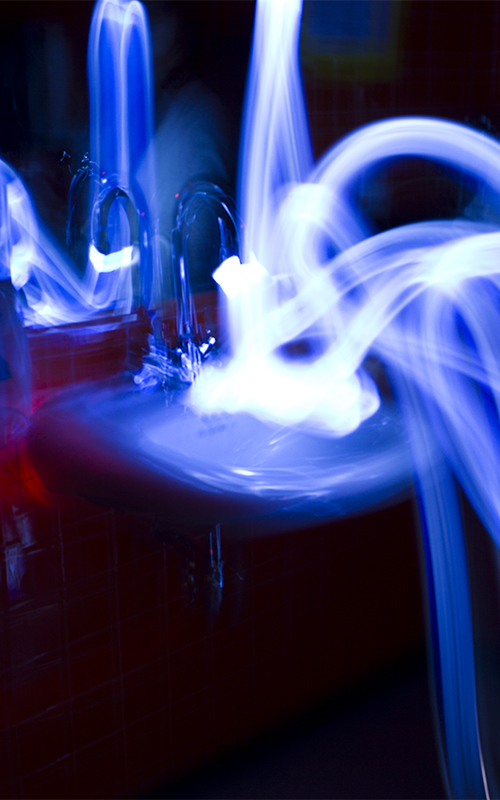
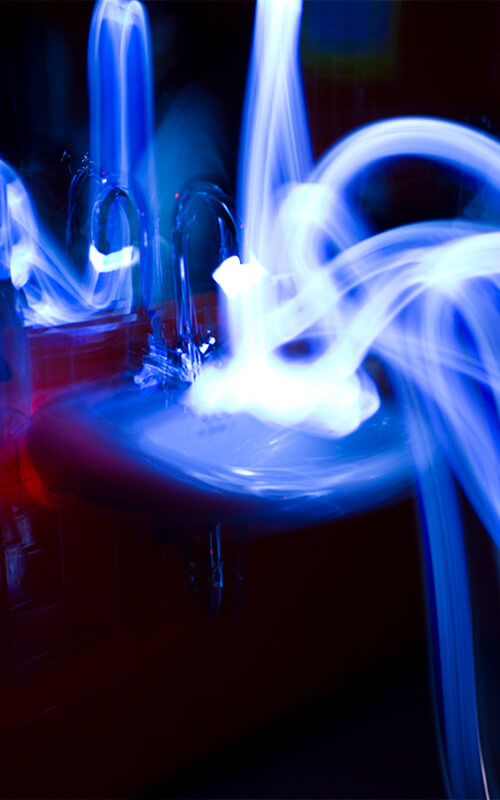
image updates

diff --git a/project.html b/project.html
@@ -35,7 +35,7 @@
 	<div class="container">
 		<div class="row">
 			<div class="col-xs-12">			
-			<img src="images/project1.png" class="fillscreen">
+			<img src="images/project1.jpg" class="fillscreen">
 			</div>
 		</div>
 	</div>
@@ -50,7 +50,7 @@
 				<p>date, 2016</p>
 			</div>
 			<div class="col-xs-12 col-sm-pull-6 col-sm-6 col-md-8 col-md-pull-4 col-lg-8 col-lg-pull-4 ">			
-				<img src="images/projectsq.png" class="fillscreen">
+				<img src="images/projectsq.jpg" class="fillscreen">
 			</div>
 			
 		</div>
@@ -61,7 +61,7 @@
 	<div class="container">
 		<div class="row">
 			<div class="col-xs-12">			
-			<img src="images/project5.png" class="fillscreen">
+			<img src="images/project5.jpg" class="fillscreen">
 			</div>
 		</div>
 	</div>
@@ -71,15 +71,15 @@
 	<div class="container">
 		<div class="row">
 			<div class="col-xs-2 col-sm-1">
-				<img src="images/logos-1-04.svg">
+				<img src="images/logos-b.svg">
 			</div>
 			<div class="col-xs-2 col-sm-1">
-				<img src="images/logos-1-05.svg">
+				<img src="images/logos-insta.svg">
 			</div>
 			<div class="col-xs-2 col-sm-1">
-				<img src="images/logos-1-06.svg">
+				<img src="images/logos-tblr.svg">
 			</div>
-			<div class="col-xs-4 col-xs-push-2 col-sm-3 col-sm-push-6">
+			<div class="col-xs-5 col-xs-push-1 col-sm-3 col-sm-push-6">
 				<p> email@email.com <br>
 				Designed and coded by Morgan Leber</p>
 			</div>

diff --git a/index.html b/index.html
@@ -79,7 +79,7 @@
 			<div class="col-xs-12 col-sm-6 col-md-6 col-lg-6 project">
 				<a href="project.html">
 				<div class="projectLabel"> <h1>typeface design</h1></div>
-				<img src="images/project1.png" class="img-responsive"></a>
+				<img src="images/project1.jpg" class="img-responsive"></a>
 			</div>
 			<div class="col-xs-12 col-sm-6 col-md-6 col-lg-6 project">
 				<div class="projectLabel"> <h1>typography</h1></div>
